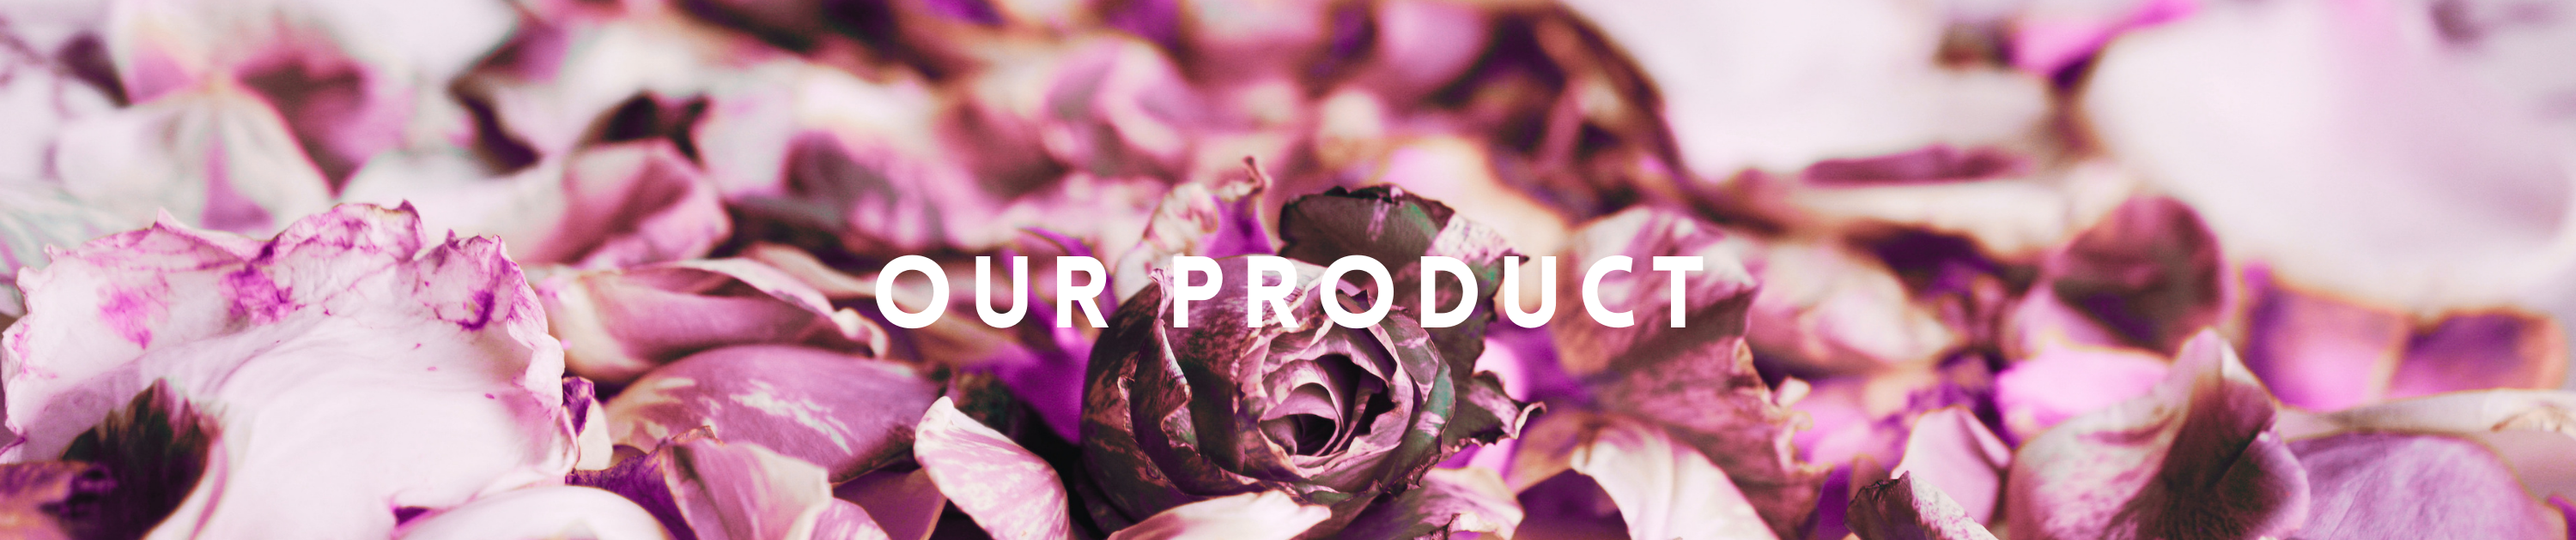
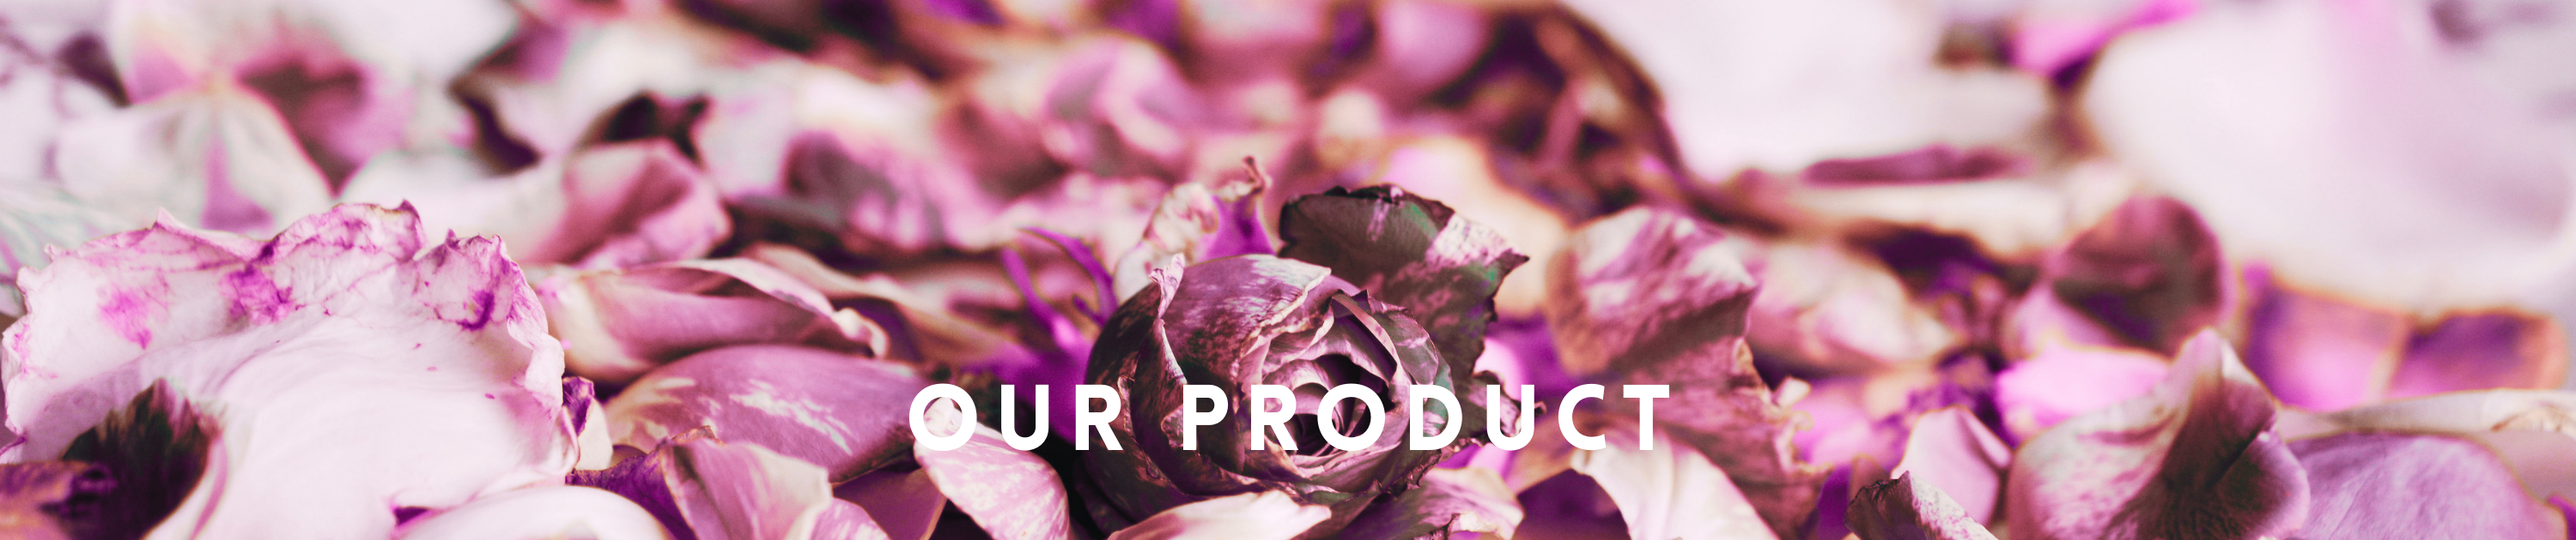
trying something on product page

Changed region(s): [[0.341, 0.4524, 0.682, 0.6032], [0.341, 0.6937, 0.651, 0.8444]]

diff --git a/css/styles.css b/css/styles.css
@@ -31,7 +31,8 @@ height: 365px;
   background: url("../images/ourproductheader.png");
   background-size: cover;
 	padding: -2%; margin: -2%; margin-bottom: 3%;
-	background-position: center; }
+	background-position: center;
+max-height: 65vw}
 
 .whoareweheader {
 height: 365px;
